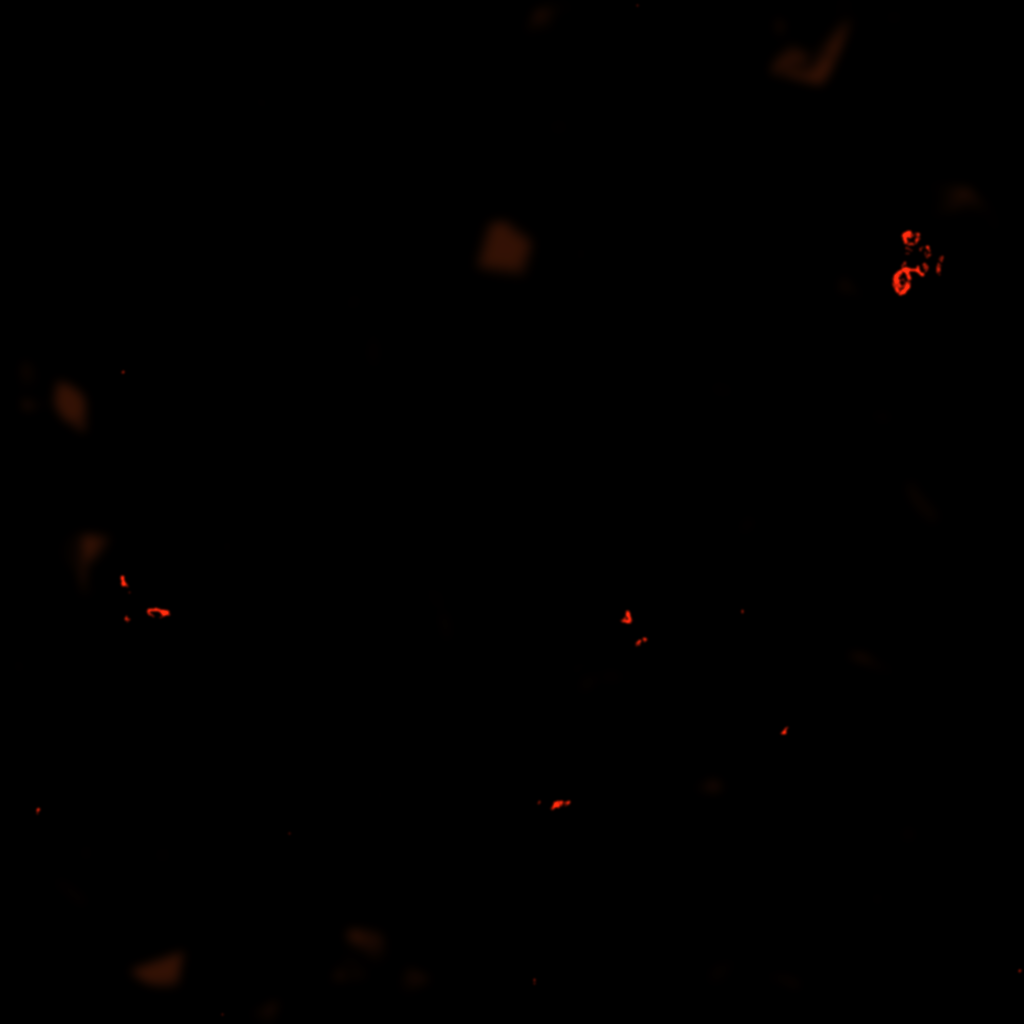
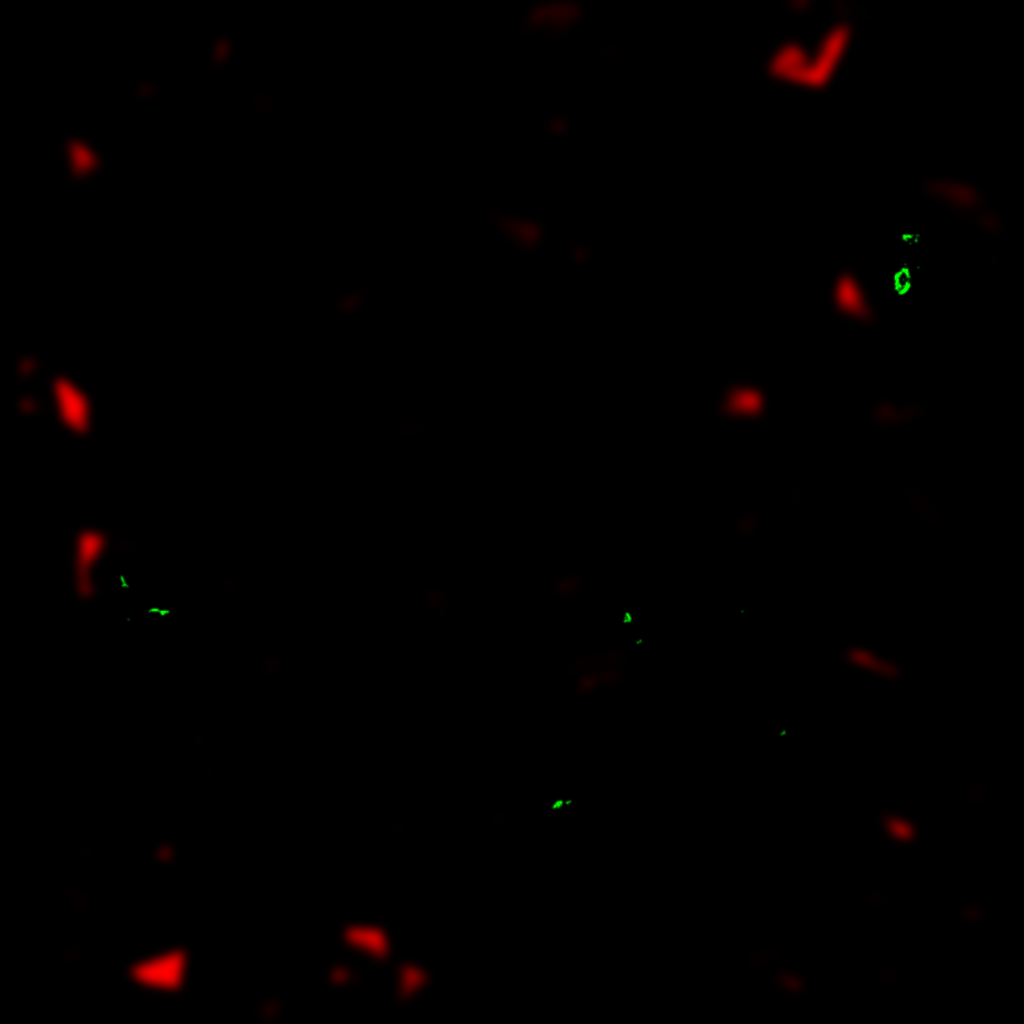
Pulsing inner glow for enemy blisters, fewer and dimmer eyes (#775)
* Pulsing inner glow for enemy blisters, fewer and dimmer eyes

Claude-Session: https://claude.ai/code/session_017Jb3ZiAdAVEmk7zs8Pm1ip

* Add missing .uid files

Claude-Session: https://claude.ai/code/session_017Jb3ZiAdAVEmk7zs8Pm1ip

---------

diff --git a/tools/build_enemy_glow_masks.py b/tools/build_enemy_glow_masks.py
@@ -1,9 +1,11 @@
-"""Builds <Enemy>_glow.png emission masks from the albedo texture and the UV rasters.
+"""Builds <Enemy>_glow.png masks from the albedo texture and the UV rasters.
 
 Run tools/dump_enemy_uv_rasters.gd first, then:
     python3 tools/build_enemy_glow_masks.py <raster dir>
-Blisters: Colossus is keyed by albedo colour (red patches); Titan, Brute,
-Revenant and Horde use the geometric bump raster. Eyes are red albedo pixels on the head.
+Channels (read by body_wound.gdshader): R = blister, G = eye, B = alternative blister colour (Horde green).
+Colour and brightness live in the <Enemy>_game.tres material. Colossus blisters are keyed by albedo colour
+(red patches); Titan, Brute, Revenant and Horde use the geometric bump raster. Eyes are the reddest albedo
+pixels inside a narrow height band of the head.
 """
 import sys
 import numpy as np
@@ -11,15 +13,8 @@ from PIL import Image, ImageFilter
 
 DIR = "models/objects/characters/enemy/game/"
 SIZE = 1024
-EYE = np.array([1.0, 0.16, 0.05])
-# name: (blister colour, blister strength); Horde is handled separately (red + green).
-BLISTER = {
-    "Colossus": ((1.0, 0.1, 0.04), 0.18),
-    "Titan": ((0.3, 1.0, 0.12), 0.3),
-    "Brute": ((1.0, 0.35, 0.1), 0.2),
-    "Revenant": ((0.55, 1.0, 0.25), 0.2),
-}
-EYES = ["Hunger", "Brute", "Revenant", "Titan"]
+# Height band (0..1 inside the top 0.28 m of the model) where the eyes sit; missing = no eyes.
+EYE_BAND = {"Hunger": (0.4, 0.6), "Brute": (0.3, 0.5), "Revenant": (0.4, 0.6), "Titan": (0.3, 0.5)}
 
 
 def blur(a, r):
@@ -36,31 +31,26 @@ def main(raster_dir):
         alb = np.asarray(Image.open(DIR + name + "_albedo.jpg").convert("RGB").resize((SIZE, SIZE))).astype(np.float32)
         r, g, b = alb[..., 0], alb[..., 1], alb[..., 2]
         ras = np.asarray(Image.open(f"{raster_dir}/{name}_raster.png")).astype(np.float32) / 255
-        bump, head = ras[..., 0], ras[..., 1]
+        bump, head, height = ras[..., 0], ras[..., 1], ras[..., 2]
         out = np.zeros((SIZE, SIZE, 3), np.float32)
         skin = (r > 110) & (r >= g) & (g >= b * 0.9) & ~((r > 195) & (g > 185))
-        # Only Colossus blisters have a distinct albedo colour; the rest use the bump raster.
-        key = (r > 1.6 * g) & (r > 110) & (g < 110) if name == "Colossus" else None
         if name != "Hunger":
-            if key is not None:
-                mask = blur(key.astype(np.float32), 3)
+            if name == "Colossus":
+                mask = blur(((r > 1.6 * g) & (r > 110) & (g < 110)).astype(np.float32), 3)
             else:
                 lo, hi = np.percentile(bump[skin & (bump > 0)], [82, 96])
                 mask = blur(smooth(bump, lo, hi) * skin * (1 - head), 5)  # no glowing scalp
+            out[..., 0] = mask
             if name == "Horde":
-                yy, xx = np.mgrid[0:SIZE, 0:SIZE]
-                cell = blur(np.random.default_rng(7).random((SIZE // 24 + 1, SIZE // 24 + 1)).repeat(24, 0).repeat(24, 1)[:SIZE, :SIZE], 2) > 0.5
-                for sel, col in ((cell, (1.0, 0.1, 0.04)), (~cell, (0.3, 1.0, 0.12))):
-                    out += (mask * sel)[..., None] * np.array(col) * 0.25
-            else:
-                col, strength = BLISTER[name]
-                out += mask[..., None] * np.array(col) * strength
-        if name in EYES:
-            t = 2.4 if name == "Hunger" else 1.4  # Hunger's face is bloody, so only the reddest pixels
-            eye = (r > 100) & (r > t * g) & (r > t * b) & (head > 0.5)
-            out = np.maximum(out, blur(eye.astype(np.float32), 1.2)[..., None] * 1.3 * EYE)
+                cells = np.random.default_rng(7).random((SIZE // 24 + 1, SIZE // 24 + 1)).repeat(24, 0).repeat(24, 1)[:SIZE, :SIZE]
+                out[..., 2] = blur(cells, 2) > 0.5
+        if name in EYE_BAND:
+            lo, hi = EYE_BAND[name]
+            t = 2.6 if name == "Hunger" else 1.5  # Hunger's face is bloody, so only the reddest pixels
+            eye = (r > 100) & (r > t * g) & (r > t * b) & (head > 0.5) & (height >= lo) & (height <= hi)
+            out[..., 1] = blur(eye.astype(np.float32), 1.0) * 1.5
         Image.fromarray((np.clip(out, 0, 1) * 255).astype(np.uint8)).save(DIR + name + "_glow.png")
-        print(name, "blister px", int((out.max(axis=2) > 0.1).sum()))
+        print(name, "blister px", int((out[..., 0] > 0.1).sum()), "eye px", int((out[..., 1] > 0.1).sum()))
 
 
 main(sys.argv[1])

diff --git a/ACTIVE_TASK.md b/ACTIVE_TASK.md
@@ -6,6 +6,7 @@ phase: 1
 owner: AI
 updated: 2026-10-18
 ---
+12.11.2026 (пульсирующее свечение волдырей, поручение Vadim): `body_wound.gdshader` теперь рисует волдыри пульсирующим приглушённым внутренним свечением (фаза плывёт по телу через шум в rest-позиции, ярче в центре, к силуэту слабее), глаза тусклые и постоянные; маска `<Враг>_glow.png`: R волдырь, G глаз, B второй цвет (зелёный у Horde), цвет и яркость в `*_game.tres` (`emission`, `emission_energy_multiplier`). Глаза ограничены узкой полосой высоты головы, у Hunger рот больше не светится, у Revenant глаза еле заметны. Тесты: run_enemy_glow_tests, run_shared_skin_tests, run_green_wound_tests PASS; validate_project PASS. Скриншот в темноте: /mnt/project-files/enemy_glow_review/glow_in_dark_pulse.png (статичный кадр, пульс в нём не виден). Владелец: features.infected.
 12.11.2026 (подсветка героя от рюкзака, поручение Vadim): в `player_equipment_pose.gd` на точке крепления рюкзака (кость Spine) добавлен мягкий OmniLight3D `BackpackGlow` (холодный белый, энергия 0.35, дальность 2 м, без теней). Свет включён всегда, не только с миниганом, чтобы героя было видно в темноте. Тест: run_new_weapon_tests (проверка света без теней) 0 failures, run_weapon_presentation_tests 0 failures; validate_project/architecture/game_spec/workflow_state/scene_resources/ci_suites PASS. Не проверялось: вид в игре (нет рендера в контейнере). Владелец: features.player.
 12.11.2026 (свечение врагов в темноте, поручение Vadim): у Hunger, Brute, Revenant, Titan светятся глаза, у Colossus (красным), Titan (зеленоватым), Brute/Revenant (слабо) и Horde (красным и зеленоватым) волдыри. Это emission-маска `<Враг>_glow.png` в `*_game.tres`, скин-шейдер `body_wound.gdshader` берёт её из материала (`emission_texture`, `emission_energy`), кровь приглушает свечение; реальных источников света нет, меши не менялись. Маски строятся `tools/dump_enemy_uv_rasters.gd` + `tools/build_enemy_glow_masks.py` (Colossus по цвету альбедо, остальные по выпуклости геометрии; глаза по красным пикселям головы), снимки `tools/capture_enemy_glow.gd`. Если PR упрощения мешей поменяет UV, маски нужно перестроить. У Hunger свечение захватывает и рот. Тесты: run_enemy_glow_tests (новый), run_shared_skin_tests, run_green_wound_tests PASS; validate_project PASS. Владелец: features.infected.
 12.11.2026 (наклон колосса в slam, поручение владельца Vadim): `infected_colossus.gd` в момент удара по полу наклоняет `Body` вперёд на 14° и опускает на 0,3 м (твин по прогрессу slam, `slam_lean_degrees`, `slam_crouch`), затем выпрямляет; при смерти поза сбрасывается. Проверено: run_enemy_animation_tests (приседание на ударе и возврат), run_colossus_shelter_tests PASS. Скриншот не снимал (нет рендера).
